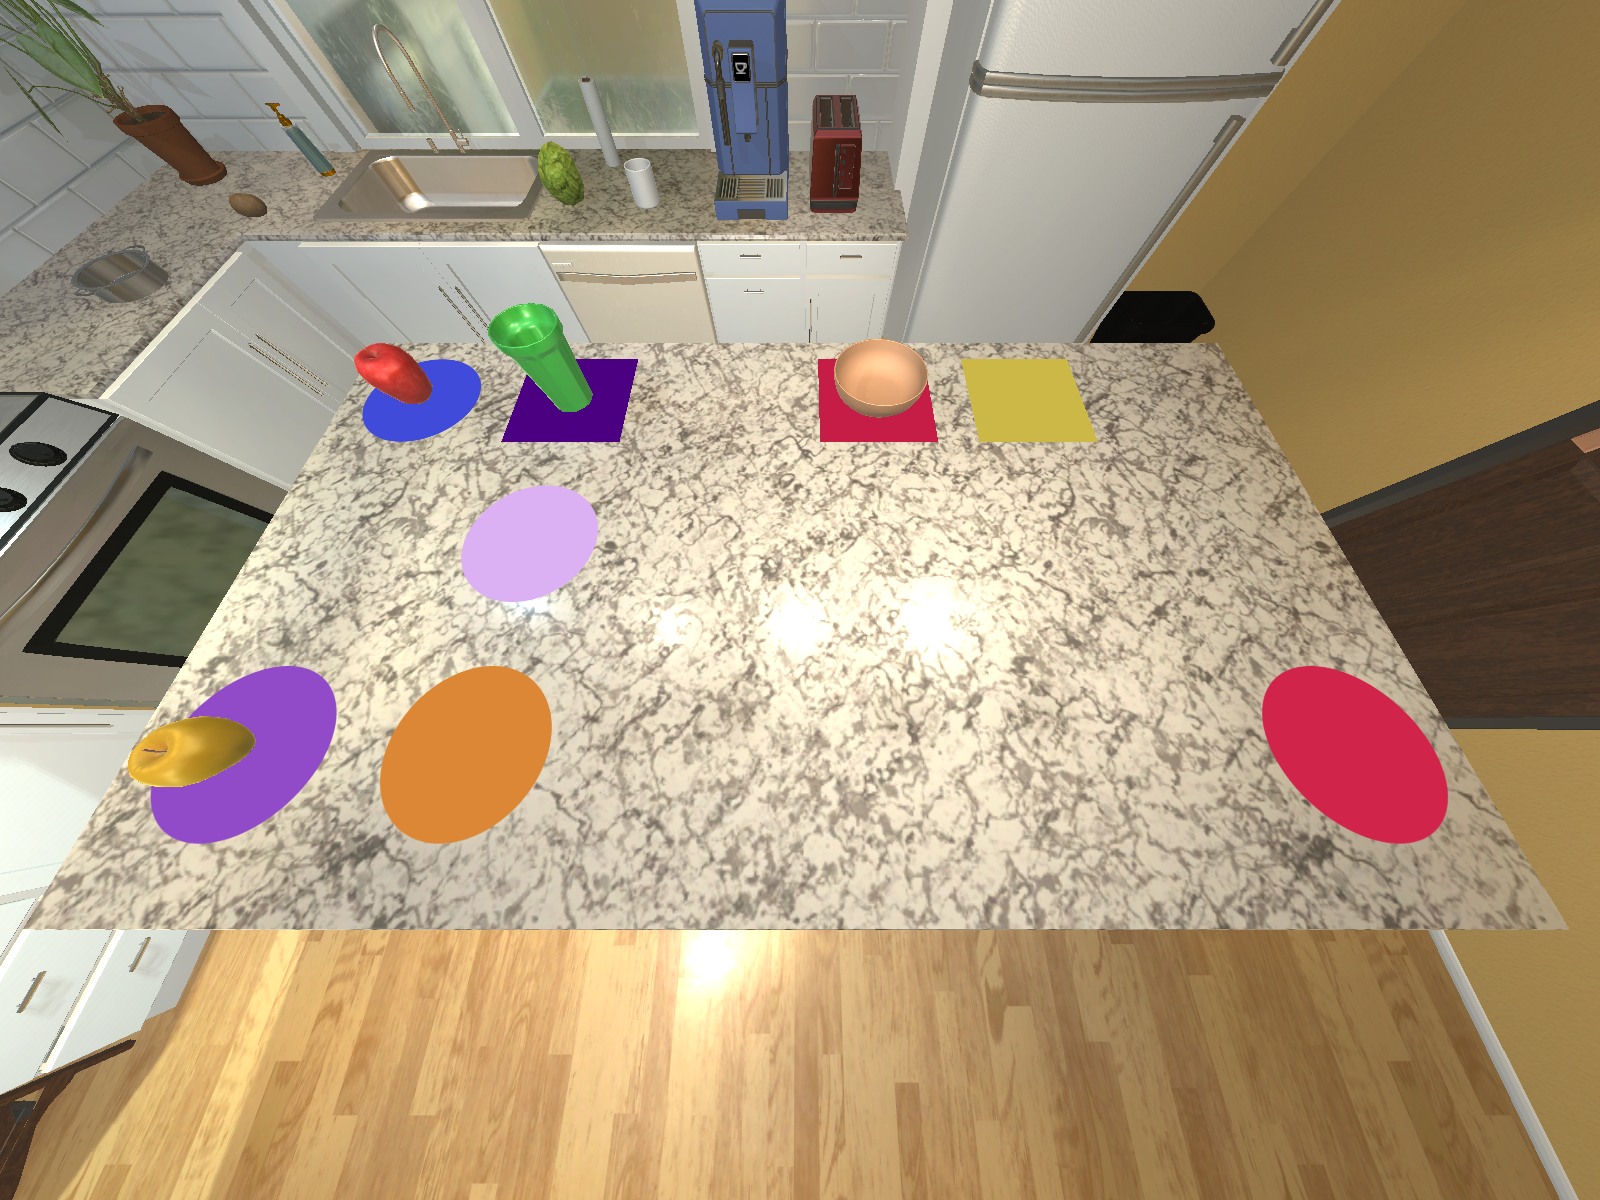
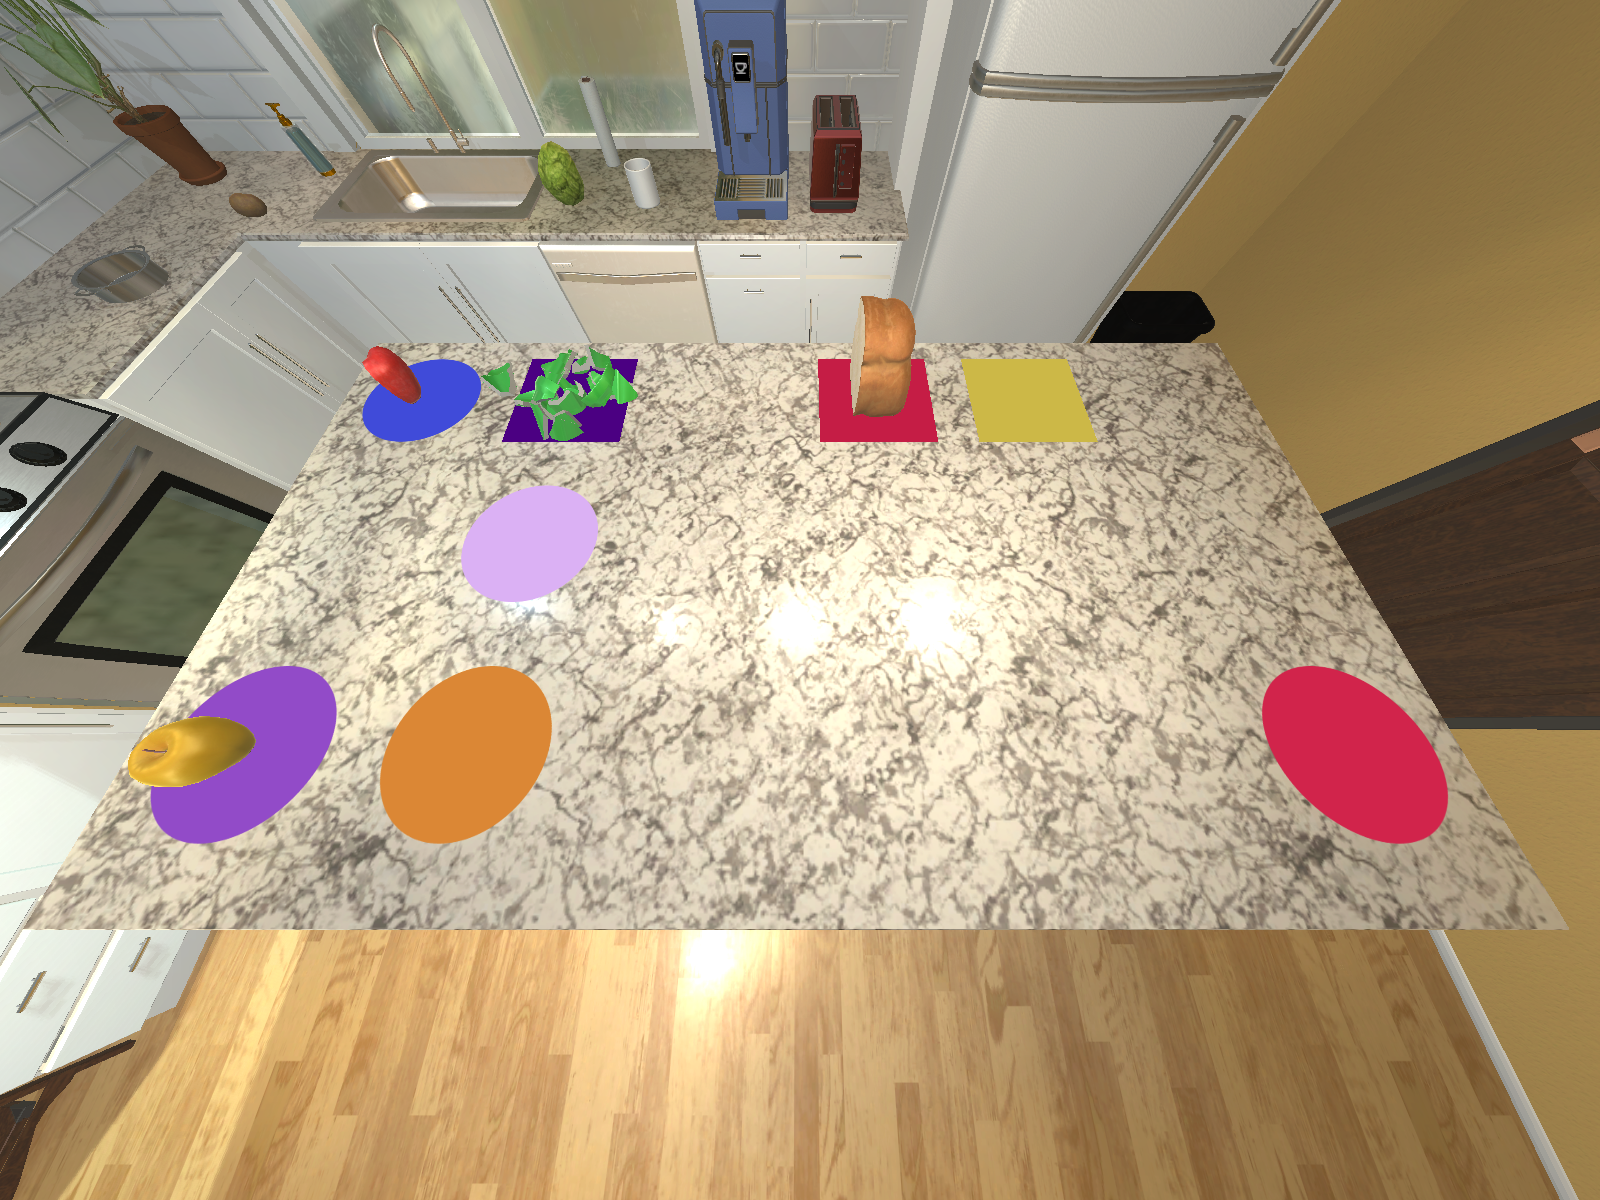
Added check for local build files

Changed region(s): [[0.2188, 0.2467, 0.4062, 0.37], [0.5, 0.2467, 0.5938, 0.37]]

diff --git a/main.py b/main.py
@@ -1,10 +1,49 @@
 from ithor_controller import IthorController;
 from table import Table;
+import platform;
+import os;
+from exceptions import UnsupportedSystemError;
+from exceptions import MissingBuildFileError;
 
-local_build_path = "builds/thor-Linux64-local/thor-Linux64-local";
 image_dir = "images/";
 
+def get_local_build_path():
+    """
+    Checks the system in use and ensures appropriate local build files are present.
+
+    Raises
+    ------
+    MissingBuildFileError
+        Raises MissingBuildFileError if the system is Linux or MacOS but the build files are missing.
+    UnsupportedSystemError
+        Raises UnsupportedSystemError if the system is Windows or unrecognised.
+
+    Returns
+    -------
+    string
+        The filepath for the appropriate local build files.
+
+    """
+    system = platform.system();
+    if system == 'Darwin':
+        if not os.path.exists("builds/thor-OSXIntel64-local/thor-OSXIntel64-local"):
+            raise MissingBuildFileError("You do not have the local build files for MacOS, please download them and put them in the builds directory.");
+        else:
+            return "thor-OSXIntel64-local";
+    elif system == 'Linux':
+        if not os.path.exists("builds/thor-Linux64-local/thor-Linux64-local"):
+            raise MissingBuildFileError("You do not have the local build files for Linux, please download them and put them in the builds directory.");
+        else:
+            return "builds/thor-Linux64-local/thor-Linux64-local";
+    elif system == 'Windows':
+        raise UnsupportedSystemError("Windows is not supported by iTHOR, please use Linux or MacOS.")
+    else:
+        raise UnsupportedSystemError("The system you are using is unrecognised, please use Linux or MacOS.")
+
 if __name__ == "__main__":
+    
+    #Get local build path
+    local_build_path = get_local_build_path();
     
     #Get an empty list of positions and specify which mats go where
     mats = Table.get_empty_slots_list();
@@ -19,10 +58,10 @@ if __name__ == "__main__":
     
     #Get an empty list and specify goal object positions
     goal_objects = Table.get_empty_slots_list();
-    goal_objects[0][0] = "Apple1";
+    goal_objects[0][0] = "Apple1Slice";
     goal_objects[0][2] = "Apple3";
     goal_objects[1][0] = "Cup1";
-    goal_objects[3][0] = "Bowl2";
+    goal_objects[3][0] = "Bread2Slice";
     
     #Create a Table object with the mats and goal_objects specified
     table = Table(mats,goal_objects);

diff --git a/exceptions.py b/exceptions.py
@@ -20,3 +20,9 @@ class NoObjectError(Exception):
     
 class NoMatError(Exception):
     pass;
+    
+class UnsupportedSystemError(Exception):
+    pass;
+    
+class MissingBuildFileError(Exception):
+    pass;

diff --git a/builds/readme.md b/builds/readme.md
@@ -1,0 +1,1 @@
+Place the appropriate build files (thor-Linux64-local or thorOSXIntel64-local) in this directory.
